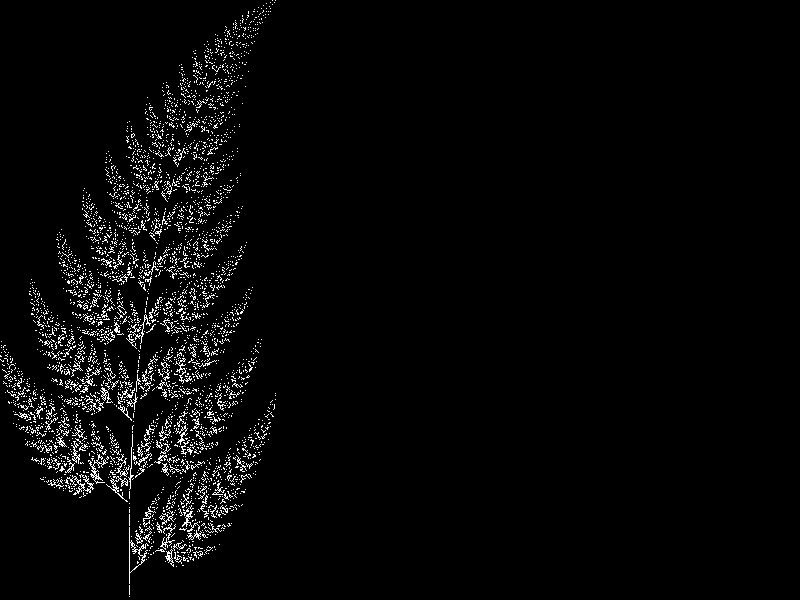
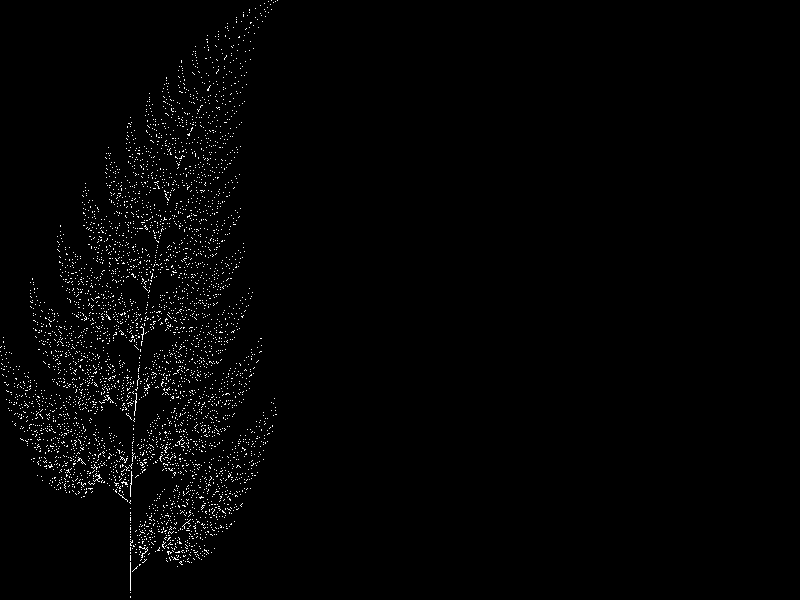
SpiralisFractalis -> new generator Better readability and based on new JSON

Changed region(s): [[0.0, 0.03, 0.3125, 0.96], [0.3125, 0.69, 0.3438, 0.75], [0.2812, 0.42, 0.3125, 0.45]]

diff --git a/SpiralisFractalis.py b/SpiralisFractalis.py
@@ -1,22 +1,44 @@
-#! /usr/bin/env python
-# coding: utf-8
-
 from __future__ import division
 
 from json import load
 from PIL import Image, ImageDraw
 from random import uniform
 
-def process_file(transformations, width, height, iterations=1, outputfile='out.png'):
+def weightedmatrix2function(definition):
+    fract = dict()
+    #print(definition['fract'][0]['weights'])
+    for x in definition['fract']:
+        formulas = dict()
+        #print(x['weights'])
+        for y in x['matrixes']:
+            formulas["x"]= str(y[0][0]) + "" 
 
-    print(iterations)
-    for t in transformations:
-        print(t[0])
-    probability_join = sum(t[0] for t in transformations)
+
+
+def parse(filename):
+    with open(filename) as f:
+        definition = load(f)
+
+    # check for errors
+    if "width" not in definition: raise ValueError('"width" parameter missing')
+    if "height" not in definition: raise ValueError('"height" parameter missing')
+    if "iterations" not in definition: raise ValueError('"iterations" parameter missing')
+    if "fract" not in definition: raise ValueError('"fract" parameter missing')
+    weightedmatrix2function(definition)
+    return definition
+
+def makeNewPoint(x,y, mat):
+    x1 = (x * mat[0][0]) + (y * mat[0][1]) + mat[0][2]
+    y1 = (x * mat[1][0]) + (y * mat[1][1]) + mat[1][2]
+    return (x1,y1)
+
+def process_file(fract, width, height, iterations=1, outputfile='out.png'):
+
+    probability_join = sum(fract[0]['weights'])
 
     points = set([(0,0)])
 
-    # for each iteration // range needed to be iterable
+    # for each iteration
     for i in range(iterations):
         new_points = set()
 
@@ -26,12 +48,13 @@ def process_file(transformations, width, height, iterations=1, outputfile='out.p
             # decide on which transformation to apply
             rnd = uniform(0, probability_join)
             p_sum = 0
-            for probability, function in transformations:
-                p_sum += probability
+            i = 0
+            while(i < len(fract[0]['weights'])):
+                p_sum += fract[0]['weights'][i] # sum the single weights
                 if rnd <= p_sum:
-                    new_points.add(function(*point))
-                    print(type(function(*point)))
+                    new_points.add(makeNewPoint(*point,fract[0]['matrixes'][i]))
                     break
+                i = i + 1
 
         points.update(new_points)
 
@@ -60,23 +83,7 @@ def process_file(transformations, width, height, iterations=1, outputfile='out.p
     # save image file
     image.save( outputfile, "PNG" )
 
-def parse(filename):
-    with open(filename) as f:
-        definition = load(f)
 
-    # check for errors
-    if "width" not in definition: raise ValueError('"width" parameter missing')
-    if "height" not in definition: raise ValueError('"height" parameter missing')
-    if "iterations" not in definition: raise ValueError('"iterations" parameter missing')
-    if "transformations" not in definition: raise ValueError('"transformations" parameter missing')
-
-    def make_t_function(expression):
-        return lambda x,y: eval(expression, {'x': x, 'y': y})
-
-    definition['transformations'] = [(float(probability), make_t_function(expression) ) for
-                                     probability, expression in definition['transformations']]
-
-    return definition
 
 if __name__ == "__main__":
 
@@ -87,11 +94,10 @@ if __name__ == "__main__":
         # process each filename in input
         for filename in sys.argv[1:]:
             result = parse(filename)
-            process_file(result['transformations'], result['width'],
+            process_file(result['fract'], result['width'],
                          result['height'], result['iterations'],
                          filename.split('.')[0] + '.png')
     else:
         # read contents from stdin
         eval( sys.stdin.read() )
         process_file( transformation, width, height, iterations)
-
